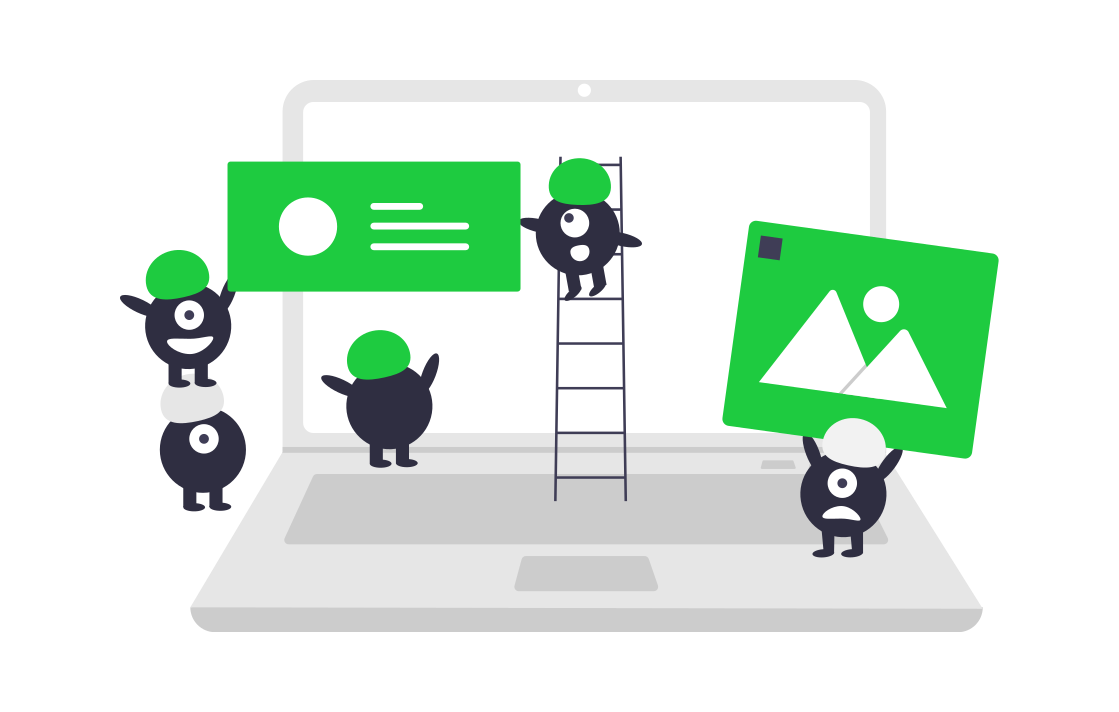
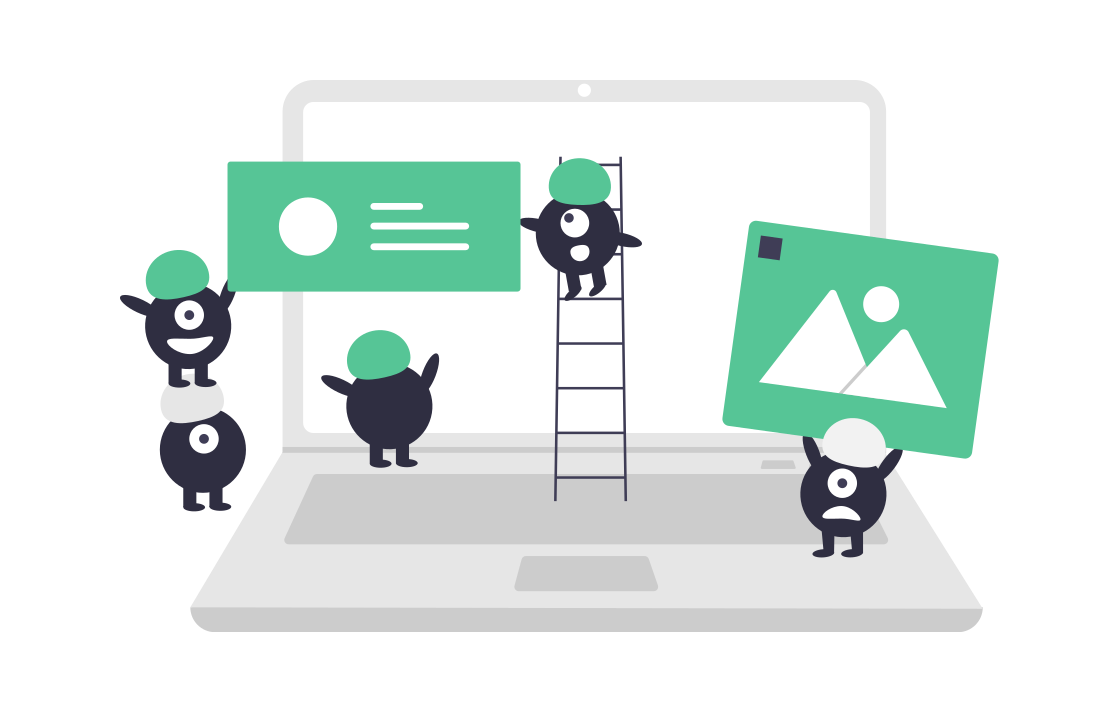
Edited Styles

Changed region(s): [[0.1215, 0.2163, 0.5469, 0.4326], [0.6381, 0.309, 0.9115, 0.6489], [0.3038, 0.4635, 0.3646, 0.5562]]

diff --git a/lib/Views/Widgets/bottom_navigation_bar.dart b/lib/Views/Widgets/bottom_navigation_bar.dart
@@ -46,22 +46,33 @@ class _MyStatefulWidgetState extends State<MyStatefulWidget> {
       body: Center(
         child: _widgetOptions.elementAt(_selectedIndex),
       ),
-      bottomNavigationBar: BottomNavigationBar(
-        backgroundColor: Colors.white,
-        items: const <BottomNavigationBarItem>[
-          BottomNavigationBarItem(
-              icon: Icon(Icons.home), title: Text("Anasayfa")),
-          BottomNavigationBarItem(icon: Icon(Icons.chat), title: Text("Chat")),
-        ],
-        currentIndex: _selectedIndex,
-        selectedItemColor: Colors.amber[800],
-        onTap: _onItemTapped,
+      bottomNavigationBar: BottomAppBar(
+        notchMargin: 5,
+        shape: CircularNotchedRectangle(),
+        clipBehavior: Clip.antiAlias,
+        child: BottomNavigationBar(
+          items: [
+            BottomNavigationBarItem(
+                icon: Icon(Icons.home), title: Text("Anasayfa")),
+            BottomNavigationBarItem(
+                icon: Icon(Icons.chat), title: Text("Chat")),
+          ],
+          currentIndex: _selectedIndex,
+          selectedItemColor: Color(0xFF56C596),
+          onTap: _onItemTapped,
+        ),
       ),
       floatingActionButton: Container(
-        decoration: BoxDecoration(shape: BoxShape.circle, color: Colors.white),
         child: FloatingActionButton(
-          child: Icon(Icons.add),
-          backgroundColor: context.theme.primaryColor,
+          child: Container(
+              width: 70,
+              height: 70,
+              decoration: BoxDecoration(
+                  shape: BoxShape.circle,
+                  gradient: RadialGradient(
+                      radius: 0.5,
+                      colors: [Color(0xFF7BE495), Color(0xFF329D9C)])),
+              child: Icon(Icons.add)),
           onPressed: () {},
         ),
       ),

diff --git a/lib/Views/Screen/Onboarding/onboarding_view.dart b/lib/Views/Screen/Onboarding/onboarding_view.dart
@@ -65,7 +65,7 @@ class _OnboardingHomeState extends State<OnboardingHome> {
               width: slideIndex == 0 ? 50 : 10,
               height: 10,
               decoration: BoxDecoration(
-                  color: Colors.green,
+                  color: context.theme.primaryColor,
                   borderRadius: BorderRadius.circular(10))),
           AnimatedContainer(
               margin: EdgeInsets.symmetric(horizontal: 5),
@@ -73,7 +73,7 @@ class _OnboardingHomeState extends State<OnboardingHome> {
               width: slideIndex == 1 ? 50 : 10,
               height: 10,
               decoration: BoxDecoration(
-                  color: Colors.green,
+                  color: context.theme.primaryColor,
                   borderRadius: BorderRadius.circular(10))),
           AnimatedContainer(
               margin: EdgeInsets.symmetric(horizontal: 5),
@@ -81,7 +81,9 @@ class _OnboardingHomeState extends State<OnboardingHome> {
               width: slideIndex == 2 ? 50 : 10,
               height: 10,
               decoration: BoxDecoration(
-                  color: Colors.green, borderRadius: BorderRadius.circular(10)))
+                color: context.theme.primaryColor,
+                borderRadius: BorderRadius.circular(10),
+              ))
         ],
       ),
     );
@@ -158,10 +160,11 @@ class SliderTile extends StatelessWidget {
   }
 
   Text buildTitle(String title, BuildContext context) {
-    return Text(
-      title,
-      textAlign: TextAlign.center,
-      style: context.textTheme.headline5,
-    );
+    return Text(title,
+        textAlign: TextAlign.center,
+        style: context.textTheme.headline5.copyWith(
+          fontWeight: FontWeight.bold,
+          color: context.theme.primaryColor,
+        ));
   }
 }

diff --git a/lib/Views/Screen/Login/login_view.dart b/lib/Views/Screen/Login/login_view.dart
@@ -2,6 +2,7 @@ import 'package:FindHackathon/Core/Components/lottie_file.dart';
 import 'package:FindHackathon/Core/Constants/App/app_lottie.dart';
 import 'package:FindHackathon/Views/Screen/Detail/detail_view.dart';
 import 'package:FindHackathon/Views/Screen/ForgotPassword/forgot_password.dart';
+import 'package:FindHackathon/Views/Widgets/bottom_navigation_bar.dart';
 import 'package:FindHackathon/Views/Widgets/outline_text_field.dart';
 import 'package:FindHackathon/Views/Widgets/oval_appbar.dart';
 import 'package:FindHackathon/Views/Widgets/space_seperator.dart';
@@ -117,7 +118,7 @@ class _LoginViewState extends State<LoginView> {
                   print(id);
                   Navigator.push(
                     context,
-                    MaterialPageRoute(builder: (context) => DetailView()),
+                    MaterialPageRoute(builder: (context) => NavigationBar()),
                   );
                 } else {
                   viewModel.validationChange(true);

diff --git a/lib/Views/Screen/ChatUserList/chat_user_list_view.dart b/lib/Views/Screen/ChatUserList/chat_user_list_view.dart
@@ -38,15 +38,17 @@ class _ChatUserListState extends State<ChatUserListView> {
 
   AppBar appBar(BuildContext context) {
     return AppBar(
+      elevation: 0,
+      backgroundColor: Colors.white,
       titleSpacing: 24.0,
-      actionsIconTheme: IconThemeData(color: Colors.black),
+      actionsIconTheme: IconThemeData(color: Color(0xFF56C596)),
       centerTitle: false,
       title: Text(
-        'Hackathons',
-        style: Theme.of(context)
-            .textTheme
-            .headline6
-            .copyWith(fontWeight: FontWeight.w600, fontSize: 22.0),
+        'Chats',
+        style: Theme.of(context).textTheme.headline6.copyWith(
+            fontWeight: FontWeight.w600,
+            fontSize: 22.0,
+            color: Color(0xFF56C596)),
       ),
       actions: [
         Padding(

diff --git a/lib/Views/Home/home_view.dart b/lib/Views/Home/home_view.dart
@@ -25,15 +25,17 @@ class _HomeScreenState extends State<HomeScreen> {
 
   AppBar appBar(BuildContext context) {
     return AppBar(
+      elevation: 0,
       titleSpacing: 24.0,
-      actionsIconTheme: IconThemeData(color: Colors.black),
+      backgroundColor: Colors.white,
+      actionsIconTheme: IconThemeData(color: Color(0xFF56C596)),
       centerTitle: false,
       title: Text(
         'Hackathons',
-        style: Theme.of(context)
-            .textTheme
-            .headline6
-            .copyWith(fontWeight: FontWeight.w600, fontSize: 22.0),
+        style: Theme.of(context).textTheme.headline6.copyWith(
+            fontWeight: FontWeight.w600,
+            fontSize: 22.0,
+            color: Color(0xFF56C596)),
       ),
       actions: [
         Padding(

diff --git a/lib/Core/Utils/custom_box_shadow.dart b/lib/Core/Utils/custom_box_shadow.dart
@@ -2,8 +2,9 @@ import 'package:flutter/material.dart';
 
 BoxShadow buildBoxShadow(Color color) {
   return BoxShadow(
-      color: color.withOpacity(.3),
-      offset: Offset(45, 20),
-      blurRadius: 50,
-      spreadRadius: 25);
+    color: color.withOpacity(0.5),
+    offset: Offset(1, 1),
+    blurRadius: 5,
+    spreadRadius: 2,
+  );
 }
